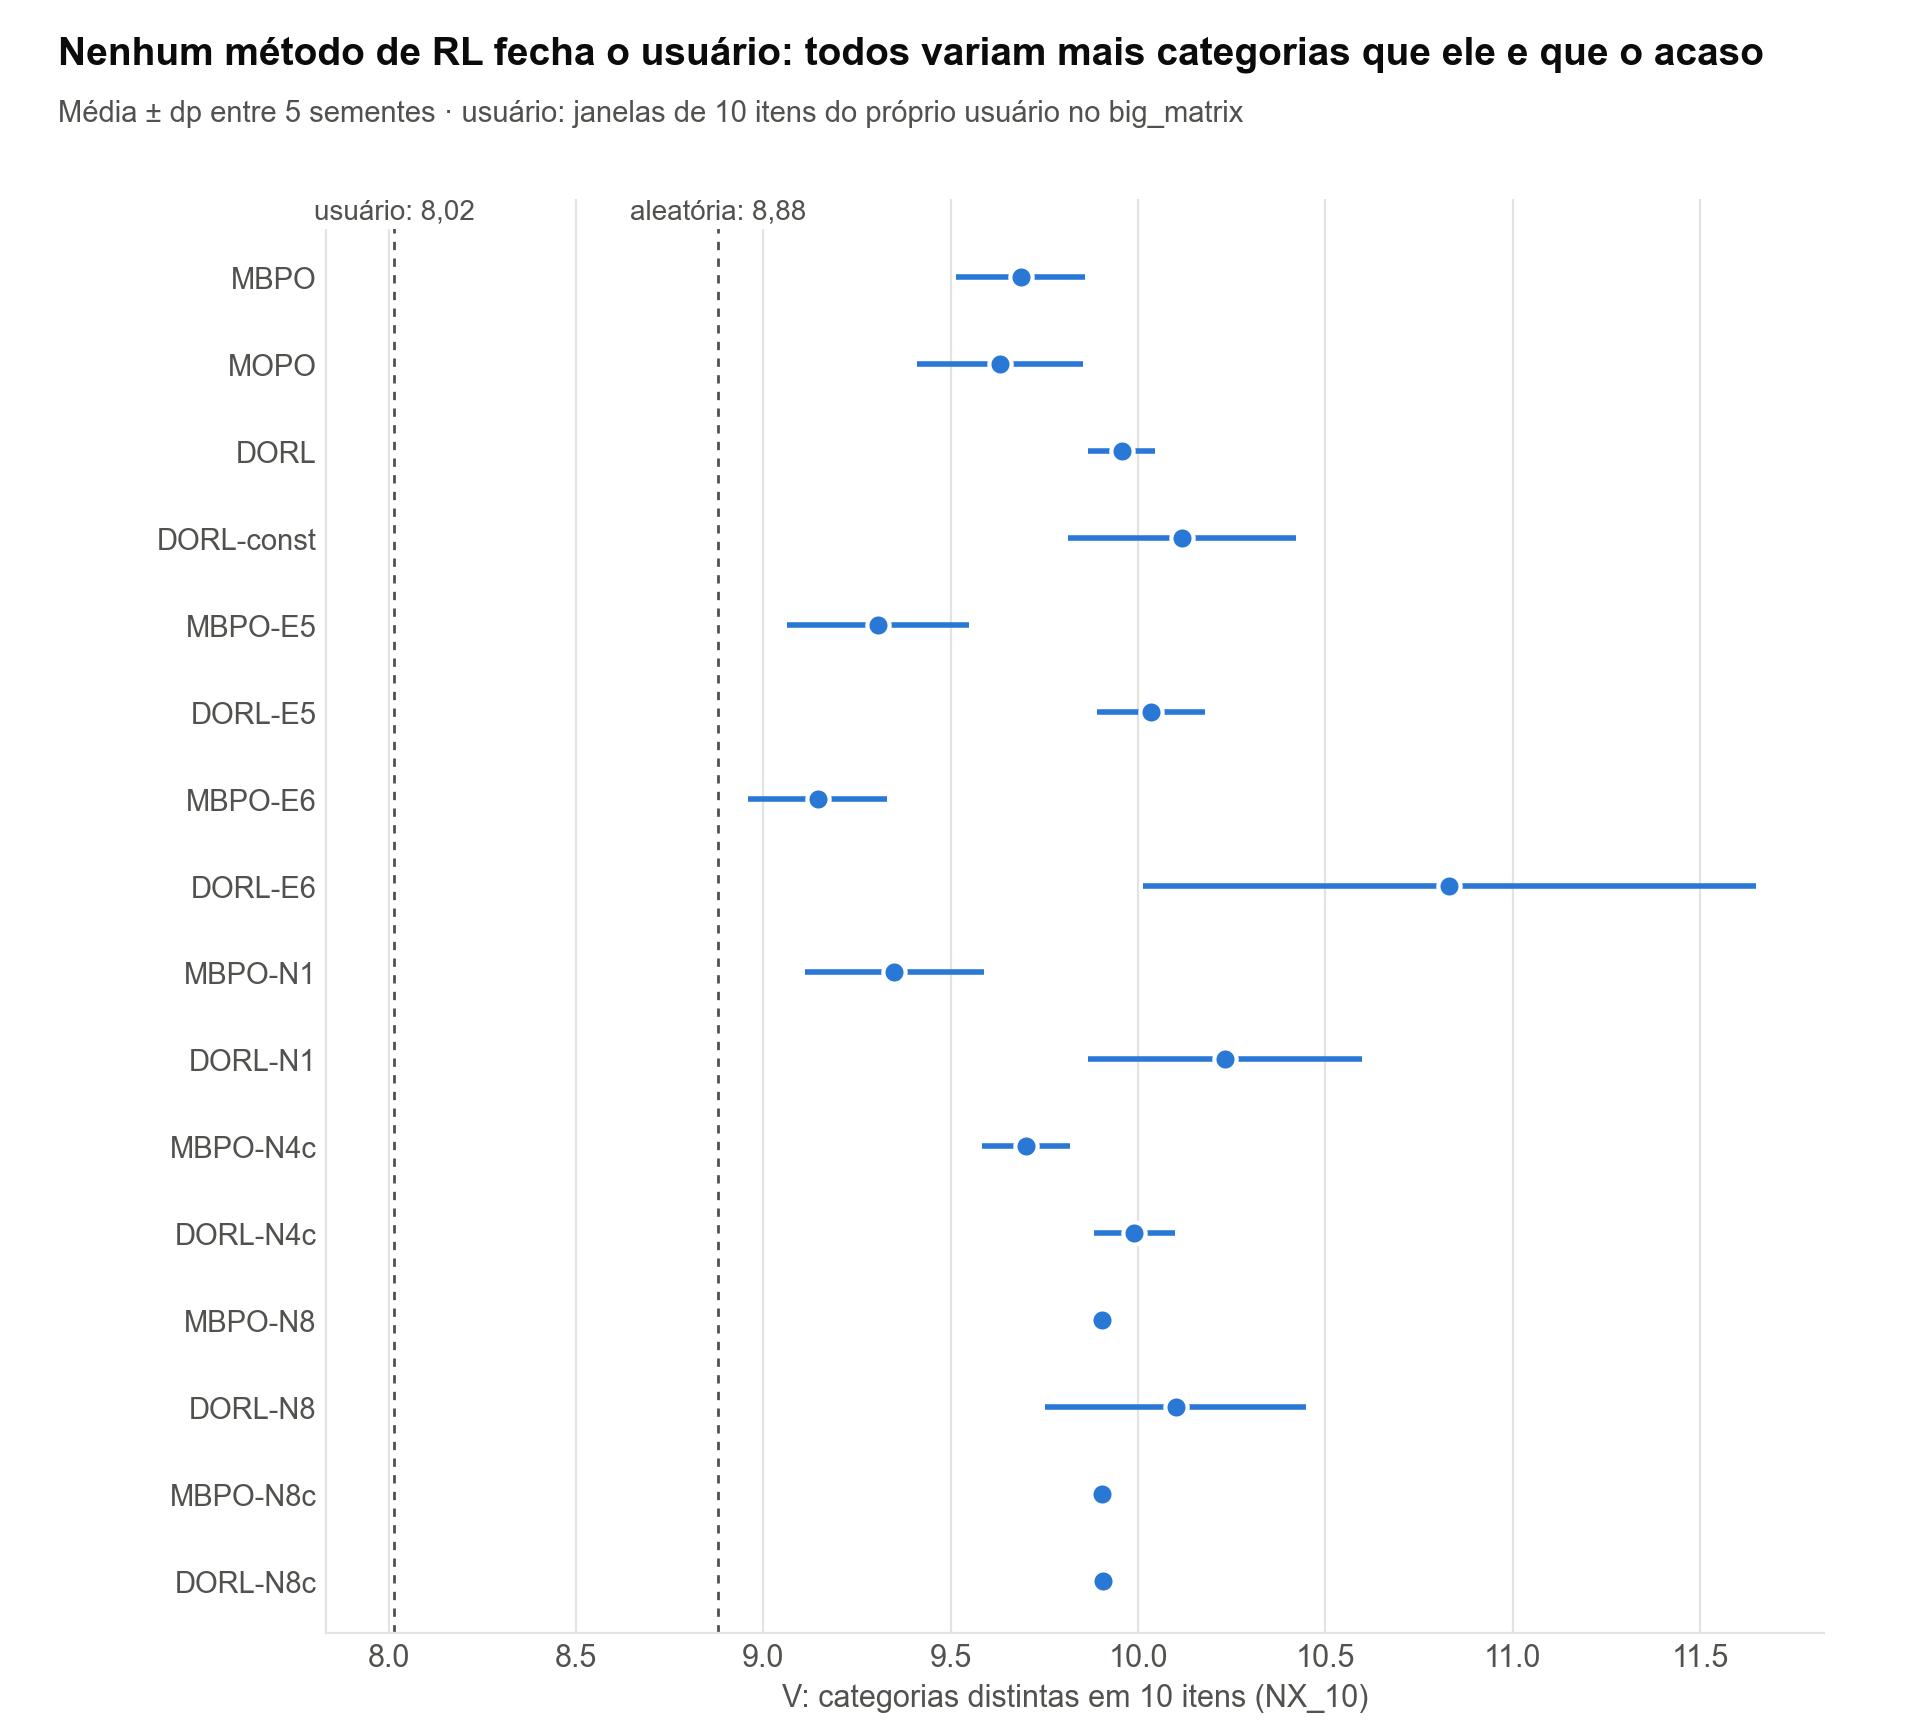
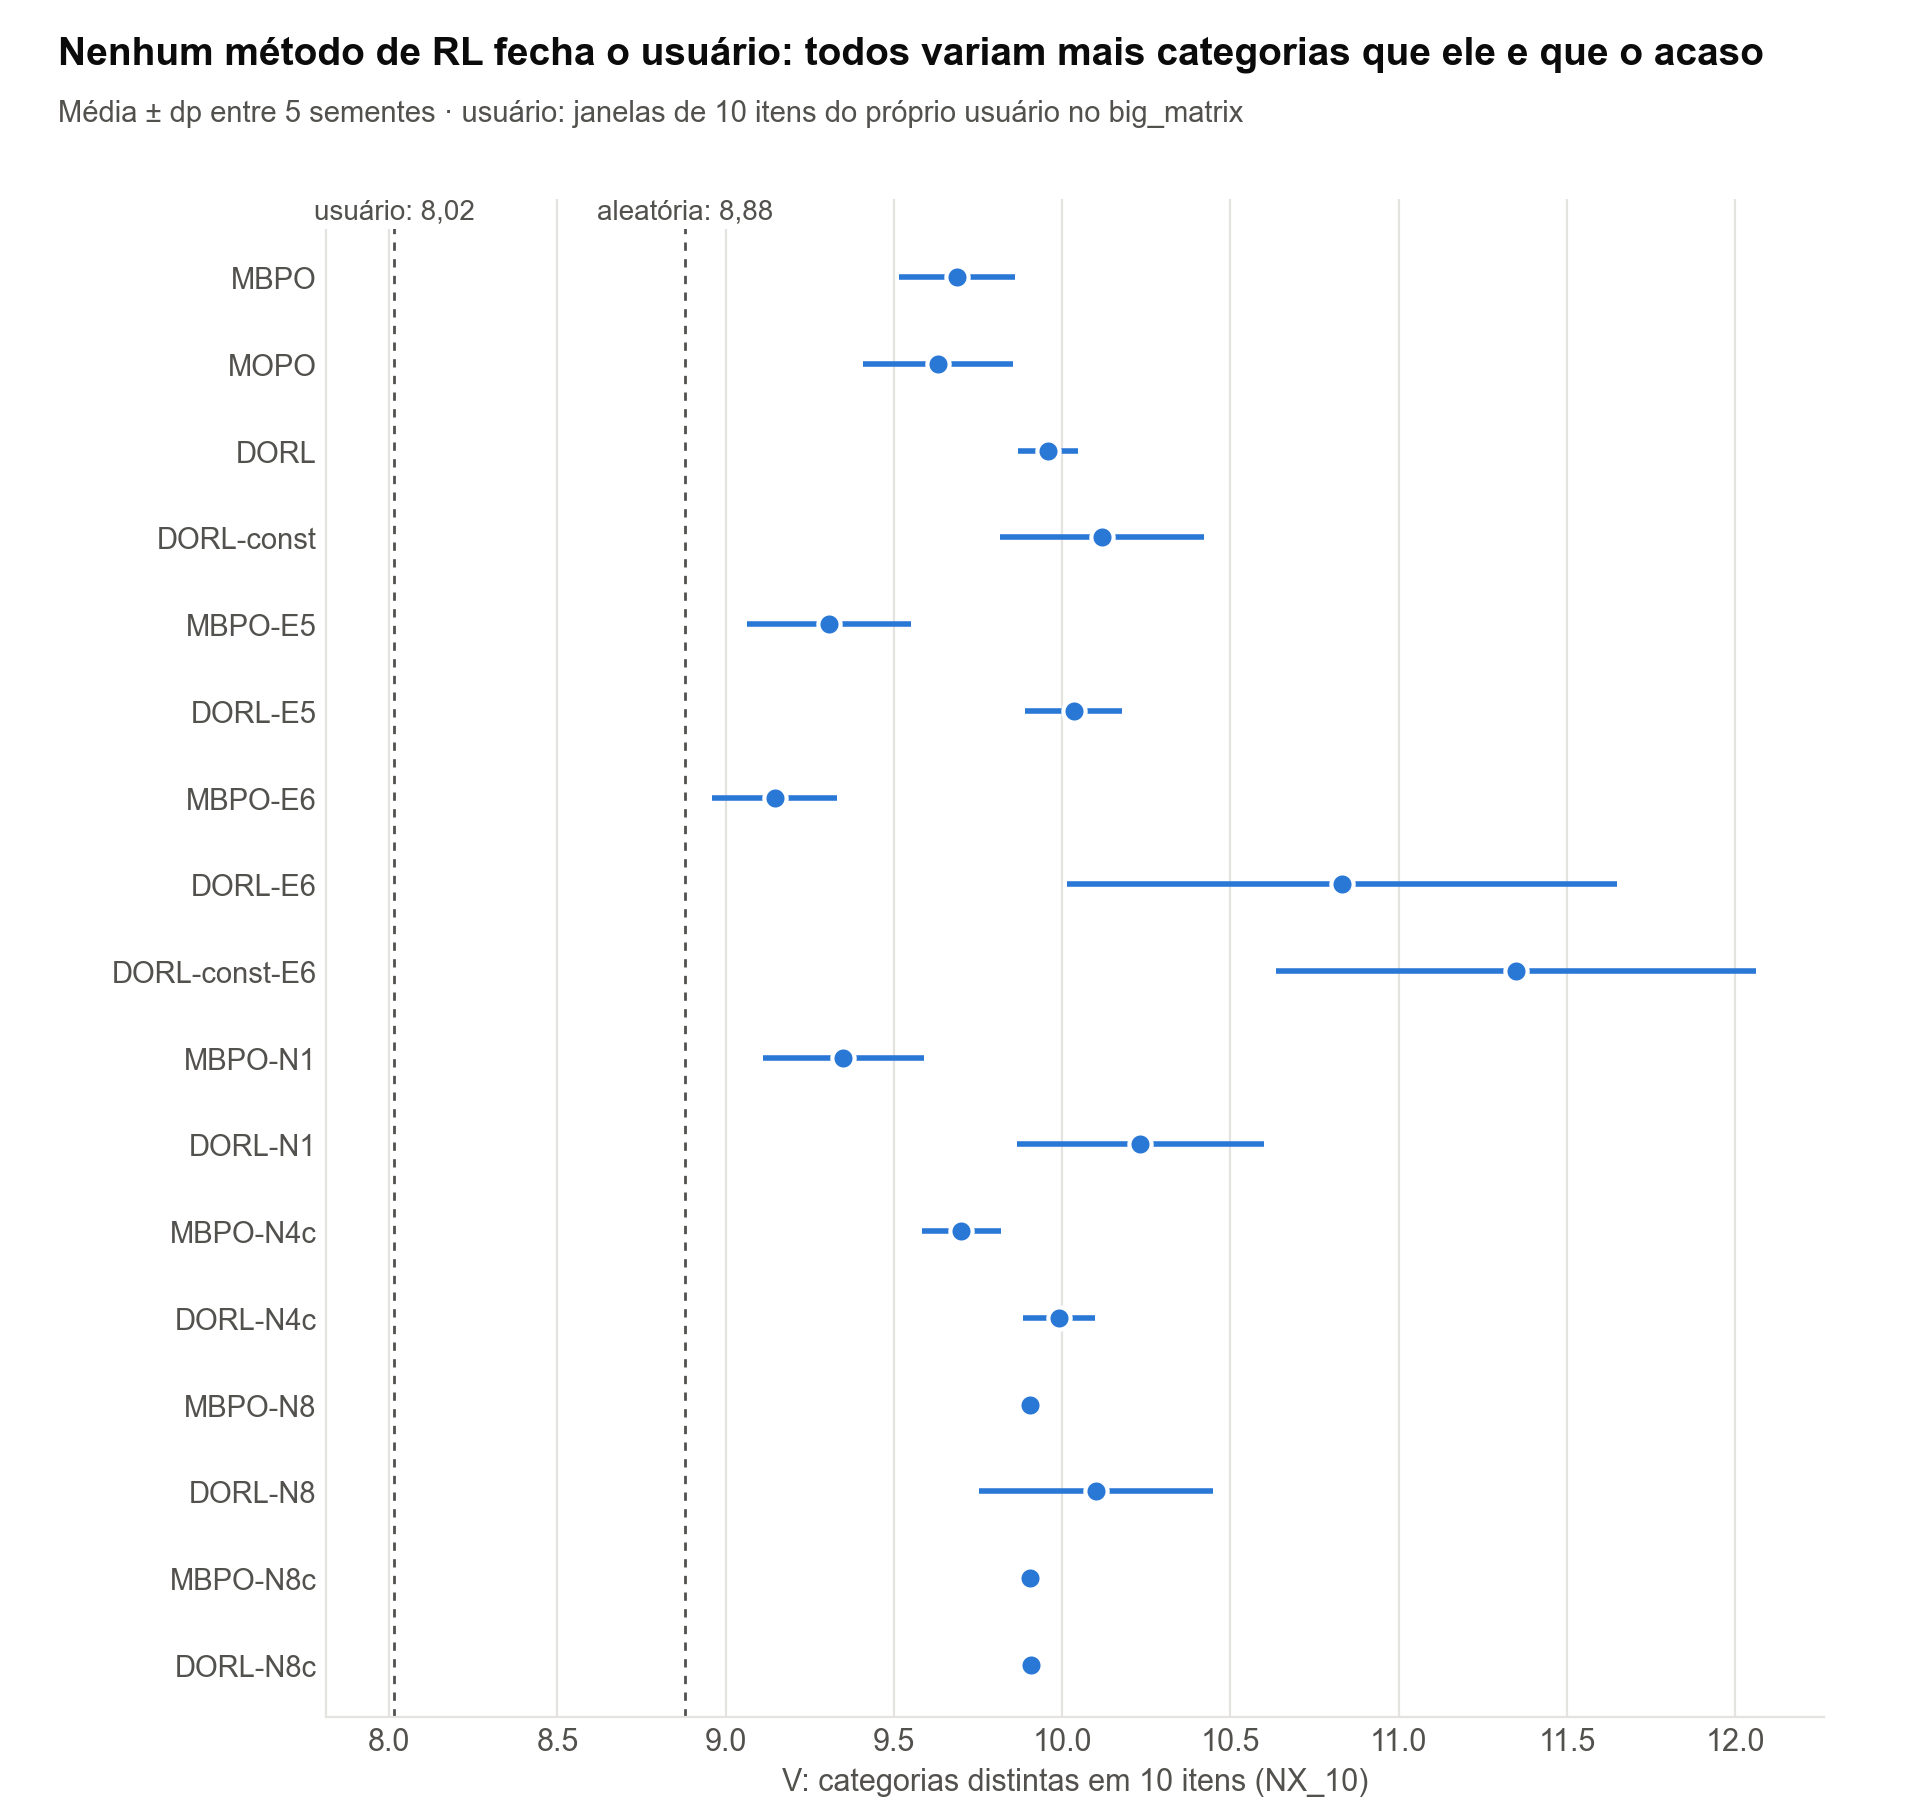
finalização do E6

diff --git a/figuras.py b/figuras.py
@@ -269,9 +269,14 @@ if not falta(a.alem):
         x, y = r.loc[m, ("media", "MCD")], r.loc[m, ("media", "cobertura")]
         cor = CONTEXTO if m == "aleatória" else SEGUNDA if m in dorl else DESTAQUE
         ax.scatter(x, y, s=70, color=cor, edgecolor="white", linewidth=2, zorder=3)
-        if m not in dorl or m in fora:
+        if m not in dorl or (m in fora and len(fora) == 1):
             ha, dx, fy = LADO.get(m, ("left", 0.014, 0.97))
             ax.text(x + dx, y * fy, NOMES.get(m, m), fontsize=10, ha=ha, color=TEXTO2 if cor == CONTEXTO else TEXTO)
+    if len(fora) > 1:                                  # DORL-E6 e DORL-const-E6 quase no mesmo ponto: um rótulo só
+        c = r.loc[fora, ("media", "cobertura")]
+        ax.text(r.loc[fora, ("media", "MCD")].min() - 0.014, c.mean() * 0.97,
+                f"{' e '.join(NOMES.get(m, m) for m in fora)}: {br(100 * c.min(), 1)}% a {br(100 * c.max(), 1)}%",
+                fontsize=10, ha="right", color=TEXTO)
     grupo = [m for m in dorl if m not in fora]
     if grupo:
         c = r.loc[grupo, ("media", "cobertura")]

diff --git a/bolha.py b/bolha.py
@@ -29,8 +29,8 @@ import pandas as pd
 
 NOMES = {"MBPO": "MBPO", "MOPO": "MOPO", "DORL": "DORL", "DORLconst": "DORL-const",
          "E5_MBPO": "MBPO-E5", "E5_DORL": "DORL-E5",            # E5: modelo de usuário com watch_ratio bruto
-         "E6_MBPO": "MBPO-E6", "E6_DORL": "DORL-E6", "E6_DORLconst": "DORL-const-E6"}            # E6: saída probabilística calibrada
-ORDEM = ["MBPO", "MOPO", "DORL", "DORL-const", "MBPO-E5", "DORL-E5", "MBPO-E6", "DORL-E6", "DORL-const-E6"]
+         "E6_MBPO": "MBPO-E6", "E6_MOPO": "MOPO-E6", "E6_DORL": "DORL-E6", "E6_DORLconst": "DORL-const-E6"}            # E6: saída probabilística calibrada
+ORDEM = ["MBPO", "MOPO", "DORL", "DORL-const", "MBPO-E5", "DORL-E5", "MBPO-E6", "MOPO-E6", "DORL-E6", "DORL-const-E6"]
 
 
 def nome(orig):

diff --git a/docs/semana9.md b/docs/semana9.md
@@ -431,8 +431,8 @@ da regra sobrevivem?
 **O que foi feito.** O `e6_saida_prob.patch` (ativado por `E6_P_REP`/`E6_P_BASE`) troca a saída certa por uma
 saída com probabilidade 0,063 quando o item repete a categoria do anterior e 0,026 quando não repete (N = 1, valores
 da etapa 9). Sem as variáveis, a decisão é idêntica à original e não consome números aleatórios (`tests/test_e6.py`).
-Vale no treino e na avaliação. MBPO e DORL com 5 sementes cada (`roda_e6.sh`, mensagens `E6_{MBPO,DORL}_s*`, com
-trajetórias gravadas); aleatória com `--p_saida` (`results/e6/aleatoria_E6.json`). A comparação justa é com a regra
+Vale no treino e na avaliação. MBPO, DORL e DORL-const (`PE_CONST=1.9609`, como no E2) com 5 sementes cada
+(`roda_e6.sh`, mensagens `E6_{MBPO,DORL,DORLconst}_s*`, com trajetórias gravadas); aleatória com `--p_saida` (`results/e6/aleatoria_E6.json`). A comparação justa é com a regra
 determinística de mesmo N (N = 1, etapa 5): só a intensidade muda.
 
 **Resultado (verificado; `results/e6/e1_saida.txt`).** NX_0, média ± dp entre 5 sementes.
@@ -443,10 +443,11 @@ determinística de mesmo N (N = 1, etapa 5): só a intensidade muda.
 | N = 1 determinística | DORL | 21,40 ± 2,30 | 0,780 ± 0,076 | 27,40 ± 0,46 | 0,448 |
 | E6 | MBPO | 17,33 ± 0,49 | 0,838 ± 0,027 | 20,69 ± 0,10 | 0,684 |
 | E6 | DORL | 18,25 ± 1,51 | 0,870 ± 0,070 | 20,98 ± 0,16 | 0,770 |
+| E6 | DORL-const | 18,06 ± 0,62 | 0,864 ± 0,032 | 20,91 ± 0,23 | 0,806 |
 | E6 | Aleatória | 17,53 ± 0,07 | 0,872 ± 0,002 | 20,10 ± 0,06 | 0,827 |
 
-No NX_10, R_tra de 8,28 ± 0,37 (MBPO), 8,85 ± 0,86 (DORL) e 8,72 (aleatória). No FB, Length de 20,7 (MBPO),
-19,9 (DORL) e 20,1 (aleatória).
+No NX_10, R_tra de 8,28 ± 0,37 (MBPO), 8,85 ± 0,86 (DORL), 8,87 ± 0,59 (DORL-const) e 8,72 (aleatória). No FB,
+Length de 20,7 (MBPO), 19,9 (DORL e DORL-const) e 20,1 (aleatória).
 
 Critérios nas trajetórias NX_10 (`results/alem/alem_saida.txt`, `results/bolha/bolha_saida.txt`) e estrutura do FB
 (`results/fb/fb_saida.txt`):
@@ -455,6 +456,7 @@ Critérios nas trajetórias NX_10 (`results/alem/alem_saida.txt`, `results/bolha
 |---|---|---|---|---|---|---|---|
 | MBPO-E6 | 0,528 ± 0,077 | 0,903 | 0,949 | 9,15 ± 0,19 | 0,220 | 18,7 / 20,7 | 0,08 |
 | DORL-E6 | 0,027 ± 0,008 | 0,996 | 0,151 | 10,83 ± 0,82 | 0,003 | 5,9 / 19,9 | 0,62 |
+| DORL-const-E6 | 0,025 ± 0,005 | 0,996 | 0,164 | 11,35 ± 0,71 | 0,004 | 6,0 / 19,9 | 0,62 |
 | Aleatória | 0,865 | 0,771 | 0,998 | 8,88 | 0,295 | — | — |
 
 **Interpretação.**
@@ -474,18 +476,29 @@ Critérios nas trajetórias NX_10 (`results/alem/alem_saida.txt`, `results/bolha
    cobertura entre os métodos de RL até aqui (o MBPO original: 12%). O DORL-E6 cobre 2,7% e tem personalização de
    0,15: as listas de usuários diferentes são quase as mesmas (Jaccard médio de 0,85). No FB, o DORL-E6 usa 5,9 itens
    distintos em 19,9 passos. O método proposto para reduzir o efeito Mateus é o que mais concentra a exposição.
-7. **Hipótese (não testada):** quando o comprimento deixa de depender da política, decide a variação da recompensa
-   entre itens. No DORL, essa variação é dominada pelo termo de entropia de k = 1, que favorece itens raros e é a
-   mesma para todos os usuários (S1). O teste é o DORL-const sob o E6 (não rodado).
+7. **A concentração do DORL-E6 não vem da variação do P_E (hipótese testada e descartada).** A hipótese era que, sem
+   controle do comprimento, decidiria a variação da recompensa entre itens, dominada pelo termo de entropia de k = 1
+   (favorece itens raros e é o mesmo para todos os usuários, S1). O DORL-const-E6, com o P_E constante, repete o
+   DORL-E6 em tudo, dentro do dp entre sementes: cobertura 2,5% contra 2,7%, personalização 0,16 contra 0,15, Gini
+   0,996 nos dois, 6,0 contra 5,9 itens distintos no FB, R_tra, R_each, Length e MCD. A única diferença acima do dp é
+   a novidade (12,48 ± 0,17 no DORL-E6 contra 12,20 ± 0,25), por 0,28, pouco acima do maior dp: a variação do P_E
+   empurra levemente para itens menos populares, sem mudar a concentração. Como no E2 (regra determinística), a
+   variação do termo é inerte também sob a regra calibrada. O que separa os dois DORL do MBPO-E6 é o que eles têm e o
+   MBPO não tem: o bônus fixo por passo (≈ 8,35, contra um dp de r̂ de 0,02) e a penalidade de incerteza
+   (λ₁·P_U). **Hipótese (não testada):** o bônus fixo, centenas de vezes maior que a variação de r̂, apaga o sinal
+   que distingue itens e usuários, e a política converge para poucos itens comuns a todos. O MOPO-E6 (só P_U, sem
+   bônus) separaria as duas causas.
 8. **A bolha continua ausente,** mas o MBPO-E6 é o método de RL mais próximo do consumo do usuário até aqui: V de 9,15
    (8,02 do usuário), com 22% das trajetórias mais estreitas que ele (aleatória: 30%).
 
 **Leitura.** A afirmação principal do artigo (o DORL prolonga a sessão) depende de a regra de saída ser determinística.
 Com a intensidade medida nos dados, o simulador quase não deixa a política influir no comprimento, a vantagem
 desaparece, os métodos de RL ficam no nível do acaso e a leitura da concentração muda de novo.
+Sob as duas regras, a variação do termo de entropia, que o artigo motiva como diversidade, não muda a concentração:
+o que distingue o DORL é o nível dos termos da recompensa, não o sinal de diversidade.
 
 **Limitações.** Uma única calibração (N = 1, folga de 2 s, fim após 30 min); probabilidades de uma associação, não de
-um efeito causal; MOPO e DORL-const não repetidos sob o E6.
+um efeito causal; MOPO não repetido sob o E6, então o bônus fixo e o P_U não foram separados.
 
 ## Reprodutibilidade e organização
 
@@ -500,7 +513,7 @@ um efeito causal; MOPO e DORL-const não repetidos sob o E6.
 
 ## Pendências (próxima semana)
 
-- Se houver tempo: DORL-const sob o E6 (testa a hipótese da etapa 10, item 7); MOPO e DORL-const com N = 8
-  corrigido; revisitas reais ao mesmo vídeo, sem registros duplicados.
+- Se houver tempo: MOPO sob o E6 (separa o bônus fixo do P_U na concentração do DORL-E6, etapa 10, item 7);
+  MOPO e DORL-const com N = 8 corrigido; revisitas reais ao mesmo vídeo, sem registros duplicados.
 - Tabela de afirmação × sinal × evidência × força; congelamento dos experimentos.
 - Em aberto: a forma não monótona do Length do MBPO no N; por que DORL e DORL-const quase não ciclam no FB.

diff --git a/CLAUDE.md b/CLAUDE.md
@@ -76,7 +76,7 @@ Resultados principais (NX_0, média ± dp entre 5 sementes; detalhes em `docs/ex
 | FB | MBPO cicla; nos ciclos puros (38–61% das trajetórias) o bloco tem N + 1 itens em 80–99% (N = 1, 4) | Feito |
 | Além | Cobertura de itens: DORL 3,3%, MBPO 12%, aleatória 86,5% — inverte a leitura da MCD | Feito |
 | Sessões | P(fim | repete categoria) 6,3% contra 2,6% nas sessões reais; o simulador supõe 100% contra 0% | Feito |
-| E6 | Saída probabilística calibrada (N = 1, 0,063/0,026): vantagem do DORL some (Length +0,3), RL ≈ acaso; cobertura MBPO-E6 52,8% × DORL-E6 2,7% (personalização 0,15) | Feito |
+| E6 | Saída probabilística calibrada (N = 1, 0,063/0,026): vantagem do DORL some (Length +0,3), RL ≈ acaso; cobertura MBPO-E6 52,8% × DORL-E6 2,7% (personalização 0,15); DORL-const-E6 = DORL-E6 (2,5%, 0,16) → a concentração não vem da variação do P_E | Feito |
 
 **Enquadramento adotado (10/11):** o protocolo de avaliação é estruturado pelo capítulo de avaliação de Aggarwal
 (objetivos do desenho de avaliação → concentração em vários níveis; desenho da avaliação offline → sinal de treino ×
@@ -87,7 +87,7 @@ Nomes das seções do Aggarwal foram dados de memória: confirmar no livro.
 
 ## Próxima semana (planejada; última de experimentos)
 
-1. Se houver tempo: DORL-const sob o E6 (a concentração do DORL-E6 vem da variação do P_E?).
+1. Se houver tempo: MOPO sob o E6 (a concentração do DORL-E6 vem do bônus fixo por passo ou do P_U? DORL-const-E6 já descartou a variação do P_E).
 2. Se houver tempo: revisitas reais ao mesmo vídeo (no FB a recompensa de um item repetido é a mesma,
    `KuaiEnv.py:317`), excluindo registros duplicados.
 3. Tabela de síntese (afirmação × sinal × evidência × força) na estrutura acima; congelar os experimentos.
